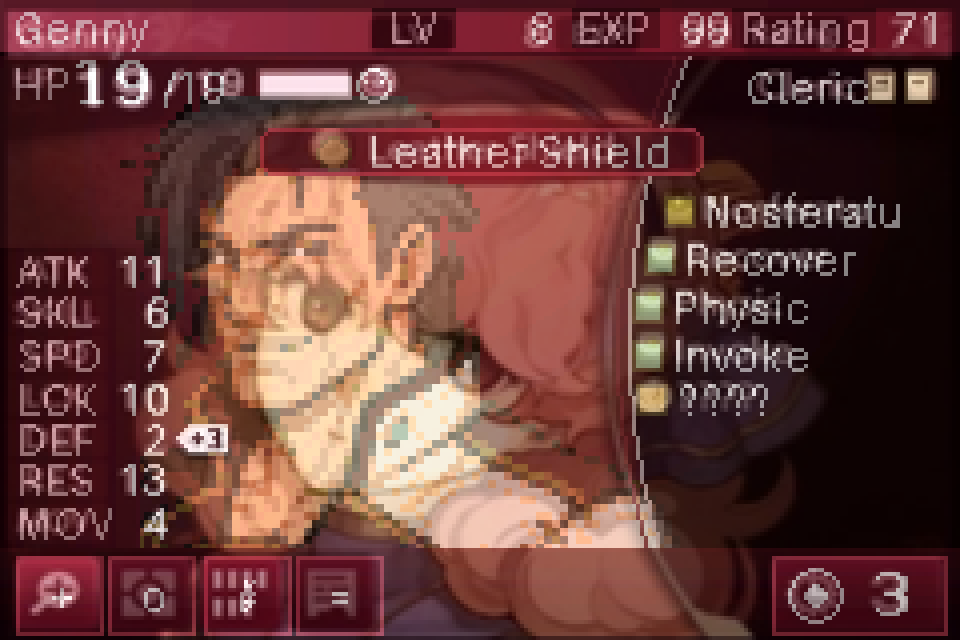
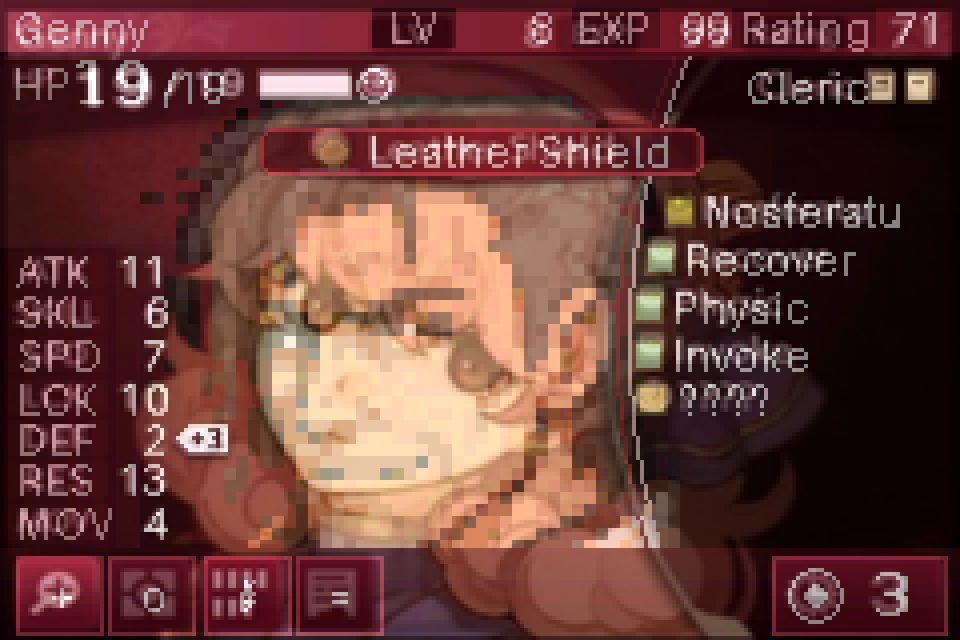
Retrato x3 con ojos alineados a la guía
Claude-Session: https://claude.ai/code/session_01C4QAM7MwvCQVjJLG12SBSt

diff --git a/gba_status/generar.py b/gba_status/generar.py
@@ -22,7 +22,7 @@ for y in range(H):
         img.putpixel((x, y), lerp((128, 32, 48), (40, 6, 14), k))
 
 # retrato (arte del usuario, fondo morado transparente)
-RX, RY = -12, 22
+RX, RY = -28, 21  # ojos alineados con la guia
 art = Image.open("retrato_busto.png").convert("RGB")
 bgc = (77, 26, 77)
 # quitar fondo morado y marco gris conectado al borde (flood fill)
@@ -38,7 +38,7 @@ for y in range(art.height):
     for x in range(art.width):
         if art.getpixel((x, y)) == bgc: mask.putpixel((x, y), 0)
         art.putpixel((x, y), c(*art.getpixel((x, y))))
-ESC = 2.0  # cabeza grande, cortada bajo los hombros
+ESC = 3.0  # cabeza grande, cortada bajo los hombros
 art = art.resize((int(art.width * ESC), int(art.height * ESC)), Image.NEAREST)
 mask = mask.resize(art.size, Image.NEAREST)
 img.paste(art, (RX, RY), mask)
